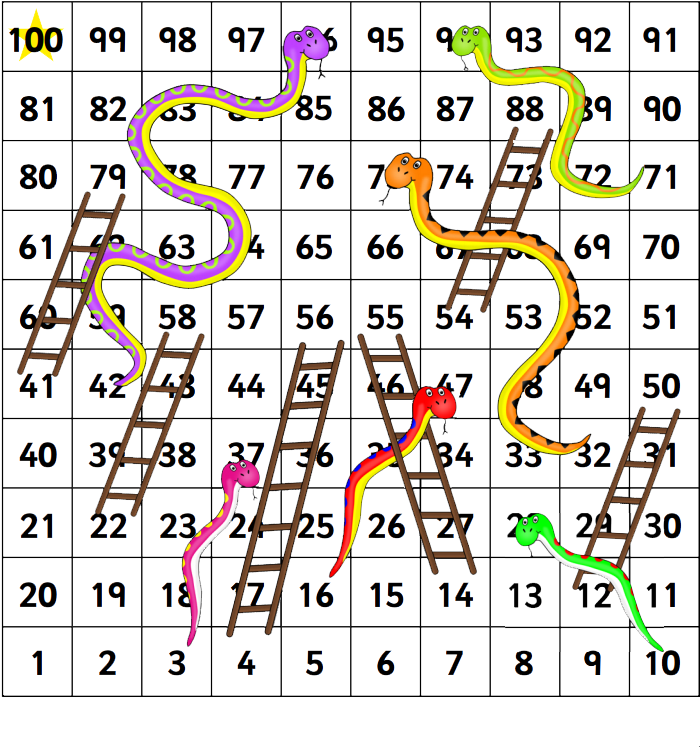
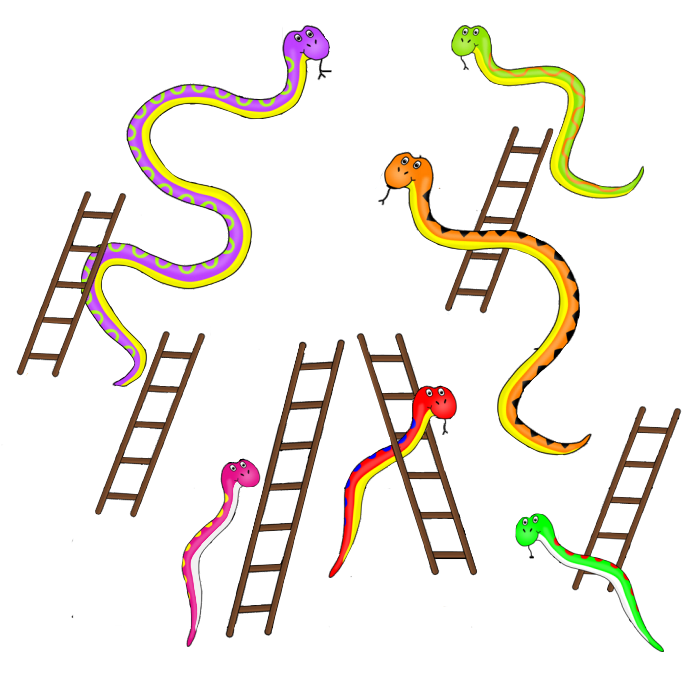
added gamescreen with grid view

diff --git a/lib/gamescreen.dart b/lib/gamescreen.dart
@@ -37,99 +37,129 @@ class _BoardState extends State<Board> {
     });
   }
 
-  int diceNumber = 1;
+  int diceNumber = null;
   int playerNumber = 1;
-  void changeDiceFace() {
+
+  int changeDiceFace() {
     Future.delayed(const Duration(milliseconds: 500), () {
       setState(() {
+        print(diceNumber);
         playSound();
         diceNumber = Random().nextInt(6) + 1;
         diceNumber == 6 ? playerNumber = playerNumber : playerNumber++;
         if (playerNumber == 5) {
           playerNumber = 1;
         }
+        print(diceNumber);
       });
     });
+    return diceNumber;
   }
 
-  createroom() {
-    Map<String, dynamic> roomMap = {
-      "users": "name",
-      "chatroomId": "roomnumber",
-    };
-  }
+  // createroom() {
+  //   Map<String, dynamic> roomMap = {
+  //     "users": "name",
+  //     "chatroomId": "roomnumber",
+  //   };
+  // }
 
   @override
   Widget build(BuildContext context) {
-    return Column(
-      mainAxisAlignment: MainAxisAlignment.center,
-      crossAxisAlignment: CrossAxisAlignment.stretch,
-      children: [
-        Container(
-          height: 420,
-          // decoration: BoxDecoration(
-          //     image: DecorationImage(
-          //         image: AssetImage('assets/images/board.png'),
-          //         fit: BoxFit.fitHeight)),
-          //  color: Colors.blue,
-          child: GridView.builder(
-            itemCount: 100,
-            gridDelegate: SliverGridDelegateWithFixedCrossAxisCount(
-              crossAxisCount: 10,
-              //  childAspectRatio: 1.1,
+    return SafeArea(
+      child: Column(
+        mainAxisAlignment: MainAxisAlignment.center,
+        crossAxisAlignment: CrossAxisAlignment.stretch,
+        children: [
+          Container(
+            //margin: EdgeInsets.only(top: 5),
+            height: 413,
+            decoration: BoxDecoration(
+              color: Colors.white,
+              image: DecorationImage(
+                  image: AssetImage('assets/images/board3.png'),
+                  fit: BoxFit.fill),
             ),
-            itemBuilder: (BuildContext context, int index) {
-              return GestureDetector(
-                onTap: () => print(index),
-                child: Container(
-                    decoration: BoxDecoration(
-                        border: Border.all(color: Colors.yellow[700])),
-                    child: Center(
-                      child: Text(
-                        '$index',
-                        // index.toString(),
-                        style: TextStyle(color: Colors.white, fontSize: 15),
-                      ),
-                    )
+            // decoration: BoxDecoration(
+            //     image: DecorationImage(
+            //         image: AssetImage('assets/images/board.png'),
+            //         fit: BoxFit.fitHeight)),
+            //  color: Colors.blue,
+            child: GridView.builder(
+              itemCount: 100,
+              reverse: true,
+              gridDelegate: SliverGridDelegateWithFixedCrossAxisCount(
+                crossAxisCount: 10,
+                //  childAspectRatio: 1.1,
+              ),
+              itemBuilder: (BuildContext context, int index) {
+                //  key:
+                // list[index];
+                return Stack(children: [
+                  index == position()
+                      ? Container(
+                          height: 20,
+                          alignment: Alignment.bottomCenter,
+                          child: Image.asset('assets/images/tok1.png'),
+                        )
+                      : SizedBox.shrink(),
+                  Container(
+                    decoration:
+                        BoxDecoration(border: Border.all(color: Colors.black)),
+                    child: Center(child: Text(((index) + 1).toString()))
                     // color: Colors.yellow,
-                    // child: Text('$index'),
-                    ),
-              );
-            },
-          ),
-          //s color: Colors.blue,
+                    ,
+                  ),
+                ]);
+              },
+            ),
+            //s color: Colors.blue,
 
-          //     Image.asset('assets/images/board.png')
-        ),
+            //     Image.asset('assets/images/board.png')
+          ),
 
-        //Image.asset('assets/images/board.png'),
-        SizedBox(height: 10),
-        Center(
-          child: Text(
-            'Tap on Dice to play',
-            style: TextStyle(color: Colors.white, fontSize: 20.0),
+          //Image.asset('assets/images/board.png'),
+          SizedBox(height: 10),
+          Center(
+            child: Text(
+              'Tap on Dice to play',
+              style: TextStyle(color: Colors.white, fontSize: 20.0),
+            ),
           ),
-        ),
-        SizedBox(height: 10),
-        Center(
-          child: Text(
-            'Player $playerNumber',
-            style: TextStyle(color: Colors.white, fontSize: 20.0),
+          SizedBox(height: 10),
+          Center(
+            child: Text(
+              'Player $playerNumber',
+              style: TextStyle(color: Colors.white, fontSize: 20.0),
+            ),
           ),
-        ),
-        SizedBox(height: 10),
-        Container(
-          height: 90,
-          width: 60,
-          //   color: Colors.white,
-          child: FlatButton(
-            onPressed: () {
-              changeDiceFace();
-            },
-            child: Image.asset('assets/images/$diceNumber.png'),
-          ),
-        )
-      ],
+          SizedBox(height: 10),
+          Container(
+            height: 80,
+            width: 20,
+            //   color: Colors.white,
+            child: FlatButton(
+              //height: 40,
+              //minWidth: 20,
+              onPressed: () {
+                index = valuess(index);
+                changeDiceFace();
+              },
+              child: Image.asset('assets/images/$diceNumber.png'),
+            ),
+          )
+        ],
+      ),
     );
   }
+
+  Object value(index, dicenumber) {
+    var a = index + diceNumber;
+    print('====');
+    print(a);
+
+    //  print(diceNumber);
+    return a;
+  }
+
+  Object position() {}
 }

diff --git a/lib/home.dart b/lib/home.dart
@@ -3,6 +3,7 @@ import 'dart:convert';
 import 'package:firebase_auth/firebase_auth.dart';
 import 'package:firebase_core/firebase_core.dart';
 import 'package:flutter/material.dart';
+import 'package:gamesnl/Helperfunctions.dart';
 import 'package:google_fonts/google_fonts.dart';
 import 'package:font_awesome_flutter/font_awesome_flutter.dart';
 import 'package:google_sign_in/google_sign_in.dart';
@@ -10,6 +11,7 @@ import 'package:progress_dialog/progress_dialog.dart';
 import 'package:gamesnl/signin.dart';
 import 'package:http/http.dart' as http;
 import 'dart:io';
+import 'package:shared_preferences/shared_preferences.dart';
 import 'package:gamesnl/profiledata.dart';
 
 final String endpointBase = 'https://sanskrut-interns.appspot.com/apis';
@@ -114,13 +116,16 @@ class _MyhomeState extends State<Myhome> {
                   // ignore: deprecated_member_use
                   onPressed: () {
                     pr.show();
-                    databasesMethods.signInWithGoogle().then((value) {
+                    databasesMethods.signInWithGoogle().then((value) async {
                       // print(value);
 
                       if (value != null) {
                         var emails = databasesMethods.email;
+
                         var names = databasesMethods.name;
                         var uids = databasesMethods.uid;
+                        //   HelperFunctions.saveUserLoggedInSharedPreference(true);
+
                         try {
                           setUser(names, emails, uids);
                           //  pr.show();

diff --git a/lib/main.dart b/lib/main.dart
@@ -11,12 +11,17 @@ import 'package:firebase_core/firebase_core.dart';
 //import 'package:snlgame/signin.dart';
 
 import 'package:google_fonts/google_fonts.dart';
+import 'package:shared_preferences/shared_preferences.dart';
 import 'dart:async';
+
+import 'Helperfunctions.dart';
 
 ProgressDialog pr;
 void main() async {
   WidgetsFlutterBinding.ensureInitialized();
+
   await Firebase.initializeApp();
+
   runApp(MaterialApp(
     debugShowCheckedModeBanner: false,
     home: MyApp(),
@@ -29,18 +34,34 @@ class MyApp extends StatefulWidget {
 }
 
 class _MyAppState extends State<MyApp> {
+  bool userIsloggedIn = false;
+
   @override
   void initState() {
     // TODO: implement initState
     super.initState();
+    //  getLoggedInfo();
     Future.delayed(
       Duration(seconds: 3),
       () {
+        // userIsloggedIn
+        //     ? Navigator.pushReplacement(context,
+        //         MaterialPageRoute(builder: (context) => ProfileScreen()))
         Navigator.pushReplacement(
-            context, MaterialPageRoute(builder: (context) => Myhome()));
+            context, MaterialPageRoute(builder: (context) => BoardScreen()));
       },
     );
   }
+
+  // getLoggedInfo() async {
+  //   await HelperFunctions.getUserLoggedInSharedPreference().then((value) {
+  //     setState(() {
+  //       print(value);
+  //       print("batao");
+  //       userIsloggedIn = value;
+  //     });
+  //   });
+  // }
 
   @override
   Widget build(BuildContext context) {

diff --git a/lib/signin.dart b/lib/signin.dart
@@ -4,6 +4,7 @@ import 'package:firebase_core/firebase_core.dart';
 import 'package:google_sign_in/google_sign_in.dart';
 import 'package:google_fonts/google_fonts.dart';
 import 'package:gamesnl/profiledata.dart';
+import 'package:gamesnl/Helperfunctions.dart';
 
 class DatabaseMethods {
   String name;
@@ -40,6 +41,8 @@ class DatabaseMethods {
     user = authResult.user;
 
     if (user != null) {
+      bool isSignedIn = await googleSignIn.isSignedIn();
+      HelperFunctions.saveUserLoggedInSharedPreference(true);
       assert(!user.isAnonymous);
       assert(await user.getIdToken() != null);
       assert(user.email != null);

diff --git a/lib/Helperfunctions.dart b/lib/Helperfunctions.dart
@@ -1,0 +1,17 @@
+import 'package:shared_preferences/shared_preferences.dart';
+
+class HelperFunctions {
+  static String sharedPreferenceUserLoggedInKey = "ISLOGGEDIN";
+
+  static Future<bool> saveUserLoggedInSharedPreference(
+      bool isUserLoggedIn) async {
+    SharedPreferences prefs = await SharedPreferences.getInstance();
+
+    return await prefs.setBool(sharedPreferenceUserLoggedInKey, isUserLoggedIn);
+  }
+
+  static Future<bool> getUserLoggedInSharedPreference() async {
+    SharedPreferences prefs = await SharedPreferences.getInstance();
+    return prefs.getBool(sharedPreferenceUserLoggedInKey);
+  }
+}
